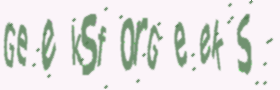
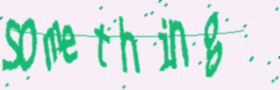
Cpatcha

diff --git a/templates/index.html b/templates/index.html
@@ -39,6 +39,18 @@
             <ul class="ul-actu">
               <li class="news">
                 <i class="fa fa-bullhorn fa-2x logo-actu">
+                <span class="version">Version B43</span></i>
+                <h3>Changelog du 10/10/2021</h3>
+                <ul>
+                    <li>Ajout d'un système de captcha à l'inscription</li>
+                    <li>Ajout de la puissance millitaire d'une planète dans ses stats (sur la page de gestion de votre planète(infrastructures/spacioport))</li>
+                    <li>Modifications mineures</li>
+                </ul>
+                
+              </li>
+              
+              <li class="news">
+                <i class="fa fa-bullhorn fa-2x logo-actu">
                 <span class="version">Version B42</span></i>
                 <br>
                 <h3>Mise à jour graphique</h3>

diff --git a/gameloopcheck.py b/gameloopcheck.py
@@ -1,8 +1,18 @@
+import random
 import time
 from datetime import datetime
 import across
+import string
+
+count = 200
 
 while 1:
     print("update")
     across.updateallplanets()
     time.sleep(3)
+    count += 1
+    if count >= 200:
+        letters = string.ascii_uppercase
+        text = ''.join(random.choice(letters) for i in range(6))
+        count = 0
+        across.updatecapt(text)

diff --git a/across.py b/across.py
@@ -692,5 +692,13 @@ def resetmdp(email):
     print("Mail envoyé")
 
 
-def updatecapt():
-    pass
+def updatecapt(text):
+
+    image = ImageCaptcha(width=280, height=90)
+
+    capt_text = text
+    image.generate(capt_text)
+
+    image.write(capt_text, "static/imgs/CAPTCHA.png")
+    with open(f'data/capt.yaml', 'w', encoding='utf8') as f:
+        text = yaml.dump(text, f)

diff --git a/ex.py b/ex.py
@@ -1,3 +1,8 @@
-import across
+from captcha.image import _Captcha, ImageCaptcha
 
-across.resetmdp("across.galaxies.web@gmail.com")
+image = ImageCaptcha(width=280, height=90)
+
+capt_text = "Something"
+data = image.generate(capt_text)
+
+image.write(capt_text, "static/imgs/CAPTCHA.png")
